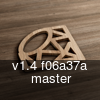
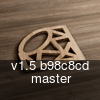
Updating readme and restamped version

Changed region(s): [[0.09, 0.6, 0.9, 0.72]]

diff --git a/lib/app_properties.rb b/lib/app_properties.rb
@@ -1,5 +1,5 @@
 class AppProperties
-  VERSION = '1.4'
+  VERSION = '1.5'
   SKU_NAME = 'motiontemplate' 
   COMPANY_NAME = 'com.iconoclastlabs.'
 

diff --git a/README.md b/README.md
@@ -6,20 +6,24 @@
 your RubyMotion application.  Simply strip out the features you don't need, and start implementing your app on this robust boilerplate!*
 
 What Features are included?
+
+#### GEMS ####
 * [Teacup](https://github.com/rubymotion/teacup) - DSL for CSS-esque styling.
 * [Bubblewrap](https://github.com/rubymotion/BubbleWrap) - A collection of (tested) helpers and wrappers used to wrap CocoaTouch code and provide more Ruby like APIs.
 * [Sugarcube](https://github.com/rubymotion/sugarcube) - Simplification and shortcuts for iOS annoyances and verbosity.
 * [Sweettea](https://github.com/colinta/sweettea) - Coercion and further Sugarcube magic/shortcuts in Teacup's DSL via Handlers.
+* [Motion Awesome Print](https://github.com/michaeldv/awesome_print_motion) - Awesome print `ap` for RubyMotion.  Colorized, Multi-line, Detailed print inspection.
+* [Motion Awesome](https://github.com/derailed/motion-awesome) - The impressive icon set of Font-Awesome imported and ready to use inside of your Motion Project.
+* [Motion X-Ray](https://github.com/colinta/motion-xray) - Performing a shake gesture on the app allows you to inspect your application in extreme detail!
+* [Motion-Rubberstamp](https://github.com/IconoclastLabs/motion-rubberstamp) - Run `rake rubberstamp:run` to stamp your versions right onto your icons for dev!
+#### Conventions ####
 * [Splash Screen](https://github.com/IconoclastLabs/SplashMotion) - Implemented Splash screen logic, ready to go!
+* [iOS 6 Autolayout](http://developer.apple.com/library/ios/#recipes/xcode_help-interface_builder/articles/UnderstandingAutolayout.html) - Using Auto Layout via Teacup's constrains to help the UI to flow and scale as needed.
+* [AppProperties Class](http://rubysource.com/rubymotion-workflow-customizations/) - The rakefile has been generalized and most configurations are in the `app_properties.rb` for clarity.  Don't forget to point provisioning to a symlink (allowing multiple users for the same source).
 * [Custom UI Skins](http://graphicriver.net/item/ui-pack-for-ios-by-rebirthpixel/2577167?WT.ac=search_thumb&WT.seg_1=search_thumb&WT.z_author=rebirthpixel) - Using custom styling so you can quickly change the application flavor.
   * Base Leather
   * Basic
   * More to come!?  Fork us!
-* [iOS 6 Autolayout](http://developer.apple.com/library/ios/#recipes/xcode_help-interface_builder/articles/UnderstandingAutolayout.html) - Using Auto Layout via Teacup's constrains to help the UI to flow and scale as needed.
-* [Motion Awesome Print](https://github.com/michaeldv/awesome_print_motion) - Awesome print `ap` for RubyMotion.  Colorized, Multi-line, Detailed print inspection.
-* [Motion Awesome](https://github.com/derailed/motion-awesome) - The impressive icon set of Font-Awesome imported and ready to use inside of your Motion Project.
-* [AppProperties Class](http://rubysource.com/rubymotion-workflow-customizations/) - The rakefile has been generalized and most configurations are in the `app_properties.rb` for clarity.  Don't forget to point provisioning to a symlink (allowing multiple users for the same source).
-* [Motion X-Ray](https://github.com/colinta/motion-xray) - Performing a shake gesture on the app allows you to inspect your application in extreme detail!
 
 Blog on the original template: [http://iconoclastlabs.com/cms/blog/posts/rubymotion-template](http://iconoclastlabs.com/cms/blog/posts/rubymotion-template)
 
